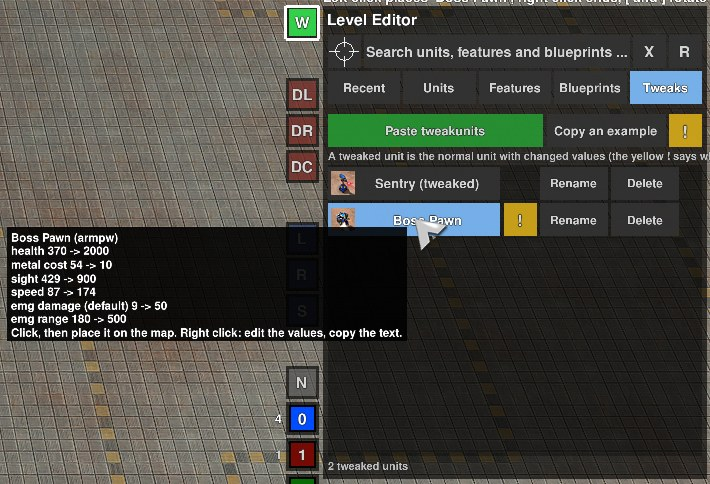
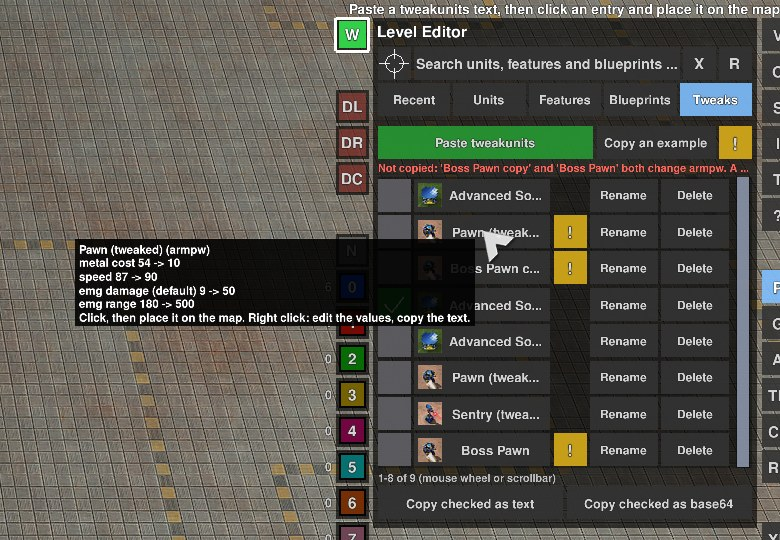
Tweaks: a box per entry and Copy checked as text / base64 for BAR's lobby; a level keeps every entry
- A box before every entry (kept in the library) chooses what Copy checked copies
- Copy checked as text / as base64: one tweakunits text of the checked entries;
  two checked entries of the same unit type are refused, nothing checked gives a note
- The level file saves every entry of the list, also entries without placed units
- Copying reads the clipboard back and writes once more when Windows held it
- README: tweaked units as a feature, the text for the game option tweakunits
- zz_tweak.lua: 62 checks (boxes, both copies, refusal, library, level section)

Claude-Session: https://claude.ai/code/session_01QeCYKn7fqMf4y4C8NkAq1r

diff --git a/specs/tweaks.md b/specs/tweaks.md
@@ -14,7 +14,7 @@ Related: [Level Editor](level-editor.md), [placing](level-editor-placing.md), [S
 |---|---|
 | `scripts\tweak_rules.lua` | pure Lua, shared by the page and the gadget (`luaui/Include/tweak_rules.lua` in both extra games): reading and writing a table, base64url, the fields a running game can change, `T.walk`, `T.check`, the help text `T.HELP` |
 | `scripts\unit_tweaks.lua` | gadget in both extra games: the definitions, `GG.Tweaks.apply(unitID, id)`, the values, the game options of a scenario |
-| `scripts\led_tweaks.lua` | the tab of the widget (`tw`): library, paste, list, rename, delete, arming, the section of the level file, the names above the units |
+| `scripts\led_tweaks.lua` | the tab of the widget (`tw`): library, paste, list, rename, delete, arming, the boxes and Copy checked, the section of the level file, the names above the units |
 | `scripts\unit_level_editor.lua` | carries the tweak of a unit through placing, loading, undo, redo, moving, rotating (`setTweak`, field `tweak` of the snapshot) |
 | `scripts\led_level.lua`, `led_place.lua` | the level file (unit field `tweak`, section `tweaks`), copy and paste |
 | `scenario\scenario_builder.ps1` | the game options `ledtweaks` and `ledtweakunits` |
@@ -73,6 +73,7 @@ Related: [Level Editor](level-editor.md), [placing](level-editor-placing.md), [S
   - Deleting only removes the entry from the library; placed units keep their values, and the level still saves their definition (`tw.known`).
 - **Arming:** `host.armUnit(base)` (the normal unit stamp: painting, rows, rectangles, rotation, W) and `tw.armed = id`; `tw.placeSuffix()` gives `|0|0|<id>` for the `led|place` messages while the tab is open and the stamp is the base unit (otherwise an empty text).
 - **Ids:** `<base>_<five random characters>`; fixed for the life of the entry (also when it is edited), a level refers to it.
+- **Checked** (`pick = true` in the library file, `e.pick`): only for Copy checked (4.3); a level and a scenario take every entry.
 - **Library:** `LevelEditor/_tweaks.lua` (the levels folder; files with `_` are internal): `{ id, name, base, b64 }` per entry, `b64` = the table of the unit in base64url.
 - **Names on the map:** `tw.drawLabels()` (from `widget:DrawScreen`) writes the name above every tweaked unit in view (looked up once a second, at most 60).
 - Test hooks: `widget:DebugTweaks()` returns `tw`; `widget:DebugLayout()` also returns the rectangles of the tab and of the open menu of a unit tile.
@@ -87,6 +88,16 @@ Related: [Level Editor](level-editor.md), [placing](level-editor-placing.md), [S
   - Pasted again unchanged it gives an entry with nothing ignored.
 - **Copy as tweakdefs** (value `defs`): `T.defsText(base, table)`: the same values as program code (`local u = UnitDefs["armpw"]`, `u.health = 370`, `u.weapondefs.emg.range = 180`), for BAR's game option; the paste of the tab refuses it as program code.
 - The tab Recent has no such menu.
+
+### 4.3 Copy checked (a text for BAR's lobby)
+
+- A box (`twpick`, a tick when checked) before every entry; a click switches it and saves the library.
+- Below the list: **Copy checked as text** (`twcopytext`) and **Copy checked as base64** (`twcopyb64`): `tw.copyChecked(kind)` -> `tw.checkedText(kind)`.
+  - The table `{ [base] = e.tw }` of the checked entries in list order; text = `T.pretty` (one field per line), base64 = `T.encode64(T.serialize(t))` (base64url, as read by the paste and by BAR's game option `tweakunits`).
+  - Two checked entries with the same base unit: nothing is copied, the note names both ("A tweakunits text holds one entry per unit type").
+  - Nothing checked: nothing is copied, the note "Check an entry first".
+- Every copy (`copy(text, what)`) reads the clipboard back; when Windows held it and the text did not arrive it writes once more, then says "The clipboard of Windows is busy: click again."
+- The rule of one entry per unit type holds only for the copied text: the editor and a scenario allow several entries of one unit (the values go to each placed unit).
 
 ### 4.2 The window of the values (`tw.win`)
 
@@ -115,9 +126,9 @@ Related: [Level Editor](level-editor.md), [placing](level-editor-placing.md), [S
 - `led|place|name|team|x|z|facing|neutral|indestructible|arena|<tweak id>` and `led|load|...|rec|indestructible|arena|<tweak id>`: the editor gadget calls `setTweak` after creating the unit.
 - The snapshot of a unit holds `tweak` (from the rules parameter): undo, redo, moving, rotating and mirroring give the new unit the tweak again.
 - Copy and paste keep the tweak (the clipboard). A **blueprint** file does not carry it: its units are placed as normal units.
-- **Level file:** a tweaked unit line ends with `, tweak = '<id>'`; the section `tweaks = { { id = "...", name = "...", base = "...", b64 = "..." }, ... }` (before `requiredmodoptions`) holds the definitions of the ids on the map.
+- **Level file:** a tweaked unit line ends with `, tweak = '<id>'`; the section `tweaks = { { id = "...", name = "...", base = "...", b64 = "..." }, ... }` (before `requiredmodoptions`) holds every entry of the list (also entries without placed units, so that loading the level brings them back) and the definitions of the ids on the map (`tw.lua(used)`).
   - Loading: `tw.load(data.tweaks)` sends the definitions before the units and adds entries the library does not have.
-- **Scenario builder:** `UNIT_RX` reads `tweak`, `TWEAK_RX` the section; units whose tweak has a definition for their type go into `ledtweakunits`, the used definitions into `ledtweaks`. The extra game of the scenarios holds `unit_tweaks.lua` and `tweak_rules.lua`.
+- **Scenario builder:** `UNIT_RX` reads `tweak`, `TWEAK_RX` the section; units whose tweak has a definition for their type go into `ledtweakunits`, the used definitions into `ledtweaks` (an entry without placed units has no effect in the game, so it is left out of the game options). The extra game of the scenarios holds `unit_tweaks.lua` and `tweak_rules.lua`.
 
 ## 6. Limits
 
@@ -130,7 +141,7 @@ Related: [Level Editor](level-editor.md), [placing](level-editor-placing.md), [S
 
 - `mock_tweaks.lua` (128 checks, no game): reading (plain, base64, padding, errors, program code), writing, applied / ignored / errors, the help text names every field, the values of a unit as text (`unitTable`, `pretty`, `defsText`, the example), the rows of the window (`rows`, `rowsTable`, `normalOf`), the gadget with a fake engine (message, each engine call, a waiting unit, an edited definition, the scenario options).
 - `ps_test.ps1`, group "scenario_builder.ps1: tweaked units": the bundle of the level `test-data\levels\tweak_test.lua` has the two game options and the two files.
-- `arena_test.ps1 -Widget zz_tweak.lua` (regression set, 53 checks): paste, refusals, arming, placing with a click, the values in the engine against a normal unit, move and undo, copy and paste, rename, save / clear / load, the test level, delete, Copy an example and the Paste button through the clipboard of Windows, the right click menu (both copy lines, pasted again, closed by a click), the window of the values (Modify: type a value, Copy, Create clone; Edit: Save changes the placed units, a value set back, Create new clone, Esc).
+- `arena_test.ps1 -Widget zz_tweak.lua` (regression set, 62 checks): paste, refusals, arming, placing with a click, the values in the engine against a normal unit, move and undo, copy and paste, rename, save / clear / load, the test level, delete, Copy an example and the Paste button through the clipboard of Windows, the right click menu (both copy lines, pasted again, closed by a click), the window of the values (Modify: type a value, Copy, Create clone; Edit: Save changes the placed units, a value set back, Create new clone, Esc), Copy checked (nothing checked, as text, as base64 and pasted again, two entries of one unit refused, unchecked, kept in the library), every entry in the section of the level.
   - With `Set-Clipboard '{ armllt = { health = 4321 } }'` before the run it also checks that the Paste button takes a text put into the clipboard from outside (otherwise that check is skipped).
 - `pve_test.ps1 -Tweaks -Quick -Widget zz_tweak_scn.lua` (regression set): the scenario game with the two game options; of two Pawns only the one at the place is tweaked.
 

diff --git a/LevelEditor/README.md b/LevelEditor/README.md
@@ -153,6 +153,7 @@ A tweaked unit is a normal unit with changed values, for example a Pawn with 200
 | Make one without a text | tab **Units**, right click on a unit > **Modify tweakunits**: a window lists all values; click a value, type, Enter; then **Create clone** |
 | Change one later | tab **Tweaks**, right click on an entry > **Edit**: the same window; **Save** changes the entry and its placed units at once, **Create new clone** makes another entry |
 | Get the text | **Copy** in the window (only the changed values), or right click > **Copy as tweakunits** |
+| Text for BAR's lobby | check the box before the entries, **Copy checked as text** (to read) or **Copy checked as base64** (to paste into the game option `tweakunits`) |
 | Place | click the entry, left click on the map; right click ends. Painting, rows and rectangles work as for units |
 | See the changes | hover the entry: old and new values |
 | Rename | **Rename**, type, Enter (the name is for the list and the label on the map) |
@@ -165,7 +166,12 @@ A tweaked unit is a normal unit with changed values, for example a Pawn with 200
 - **Copy as tweakdefs** (the same right click) gives the values as `tweakdefs` code for BAR's game option of a lobby; the Tweaks tab does not take it.
 - **The yellow `!`** at the top lists what a running game can change: health, speed, costs, build power, sight and radar, income, and for weapons range, reload time, damage, area of effect and more.
   - It cannot change the model, the size, the movement type, the kind of weapon or the build options. Such fields are ignored; a yellow `!` at the entry lists them.
-- The level saves its tweaked units, and a scenario built from it has them too.
+- **The box before an entry** only chooses what **Copy checked** copies; it is remembered.
+  - A `tweakunits` text holds one entry per unit type: two checked entries of the same unit (two Pawn clones) are refused with a message; uncheck one.
+  - Nothing checked: a message says so.
+- **The text in BAR's lobby** changes every unit of that type for all players (not only placed ones), in any online or LAN game with that game option.
+- **In the editor and in a scenario** several entries of the same unit with other values are allowed: each placed unit keeps the values of its entry.
+- The level saves every entry of the list (also entries without placed units), and a scenario built from it has them too.
 - Only placed units are tweaked: a unit built later by a factory is the normal one. The info of the game still shows the normal name.
 - The library is the file `levels\_tweaks.lua`.
 

diff --git a/docs/screenshots.md b/docs/screenshots.md
@@ -11,7 +11,7 @@ Notes on what each picture shows, so they can be retaken after a change of the l
 | File | Page and state |
 |---|---|
 | `level-editor-place-units.jpg` | Place, tab Units, Armada, Buildings, T1; the faction row shows all five factions (Armada, Cortex, Legion, Scavengers, Raptors; taken with the game option forceallunits, otherwise the last two are empty). Some buildings and bots standing on the map. The X marks in every tile and in the faction, group and tech buttons are the restrictions of the level (nothing is restricted in this picture). The pointer rests on the Energy Converter tile: 3D preview with the info block under it (name, description, cost with Eco time, explosion; the Eco time shows - because the editor team has no income). Retaken 2026-10-27 after the info moved under the preview (map Hooked 1.1, whole window scaled to 1600 x 800). |
-| `level-editor-tweaks.jpg` | Place, tab Tweaks: the buttons Paste tweakunits and Copy an example with the yellow `!`, two entries (Sentry (tweaked), Boss Pawn with its own yellow `!`), the tooltip of Boss Pawn with old and new values; a cut-out of the screenshot of `arena_test.ps1 -Widget zz_tweak.lua` |
+| `level-editor-tweaks.jpg` | Place, tab Tweaks: the buttons Paste tweakunits and Copy an example with the yellow `!`, the list with a box before every entry (one checked), entries with their own yellow `!`, the tooltip of a tweaked Pawn with old and new values, the refusal of two checked Pawn entries, the buttons Copy checked as text / as base64; a cut-out of the screenshot of `arena_test.ps1 -Widget zz_tweak.lua` |
 | `level-editor-tweak-window.jpg` | The window of the values of a tweaked unit (right click on a unit > Modify tweakunits): the Advanced Solar Collector with health changed to 5000 (yellow, with its x), the buttons Create clone, Copy, Reset all, Close; a cut-out of the second screenshot of `arena_test.ps1 -Widget zz_tweak.lua` |
 | `level-editor-place-blueprints.jpg` | Place, tab Blueprints with five blueprints (Defense Cluster, Wall Line, Factory Block, Mex Outpost, Solar Farm) with their cost; copies of three of them placed on the map; the pointer rests on Factory Block (3D preview and info). |
 | `level-editor-generate-units.jpg` | Generate, sub-tab Units with Units and Turrets switched on, count 100, area Rectangle (pressed = armed). The result of a dragged rectangle: about 100 Armada units and turrets in the area (message about free space). |

diff --git a/LevelEditor/test-data/README.md b/LevelEditor/test-data/README.md
@@ -178,7 +178,7 @@ Every test widget (`tools/zz_*.lua`) with what it checks and the command that st
 | `zz_arena_fight.lua` | `arena_test.ps1 -Widget` | two armies of the Arena after Start: the targets of their weapons, the units left, the queue of one unit |
 | `zz_arena_shots.lua` | `arena_test.ps1 -Shots` | the two pictures of the Arena (three armies) |
 | `zz_copy.lua` | `arena_test.ps1 -Widget` | copy and paste (Ctrl+C / Ctrl+V through the KeyPress of the editor, the pointer moved with `Spring.WarpMouse`), a second paste on the same spot (W on: replaced, not doubled), save, clear and load of a level (`led_place.lua`, `led_level.lua`) |
-| `zz_tweak.lua` | `arena_test.ps1 -Widget` | the Tweaks tab: paste (plain, base64, refusals), arm and place with a click, the values of the tweaked unit in the engine against a normal one, move and undo, copy and paste, rename, save / clear / load, the test level `tweak_test`, delete, the clipboard (Copy an example, Paste, the right click menu of a unit tile), the window of the values (Modify, Edit, Save, Create clone) (OK / WRONG; regression set) |
+| `zz_tweak.lua` | `arena_test.ps1 -Widget` | the Tweaks tab: paste (plain, base64, refusals), arm and place with a click, the values of the tweaked unit in the engine against a normal one, move and undo, copy and paste, rename, save / clear / load, the test level `tweak_test`, delete, the clipboard (Copy an example, Paste, the right click menu of a unit tile), the window of the values (Modify, Edit, Save, Create clone), the boxes and Copy checked as text / base64 (one entry per unit type), every entry in the level (OK / WRONG; regression set) |
 | `zz_tweak_scn.lua` | `pve_test.ps1 -Tweaks -Quick -Widget` | a tweaked unit in a scenario game (game options `ledtweaks` / `ledtweakunits`): of two Pawns only the one at the place is tweaked (OK / WRONG; regression set) |
 | `zz_features.lua` | `arena_test.ps1 -Widget` | moving a feature (`led\|movefeatures`, what Alt + drag sends), undo and redo |
 | `zz_expunits.lua` | `arena_test.ps1 -Widget ... -ModOptions 'lanexpunits=0;'` | the Experimental Units left out by the game option of LAN Play: none of the 8 units, none in the build lists |

diff --git a/README.md b/README.md
@@ -49,7 +49,10 @@ You need Windows and Beyond All Reason, started once through its launcher.
 - Paint, rows, rectangles; copy, cut, paste, move, rotate, mirror; undo and redo for everything
 - Generate random armies, turrets, air or ships, or a maze of walls
 - Blueprints: save a selection and place the layout again anywhere
-- Tweaked units: paste a `tweakunits` text and place units with changed health, speed or weapons
+- Tweaked units ("clones"): units with changed health, speed or weapons ([how](LevelEditor/README.md#tweaked-units-tab-tweaks))
+  - Make one in a window: right click on a unit > **Modify tweakunits**, change the values, **Create clone**
+  - Several clones of one unit with other values and own names can stand in the same level and scenario
+  - **Make a `tweakunits` text for BAR's lobby:** check the clones you want, **Copy checked as base64**, paste it into the game option `tweakunits` of an online or LAN game
 - Ten teams plus neutral, with alliances, human or AI per team and start resources
 
 **Play it**
